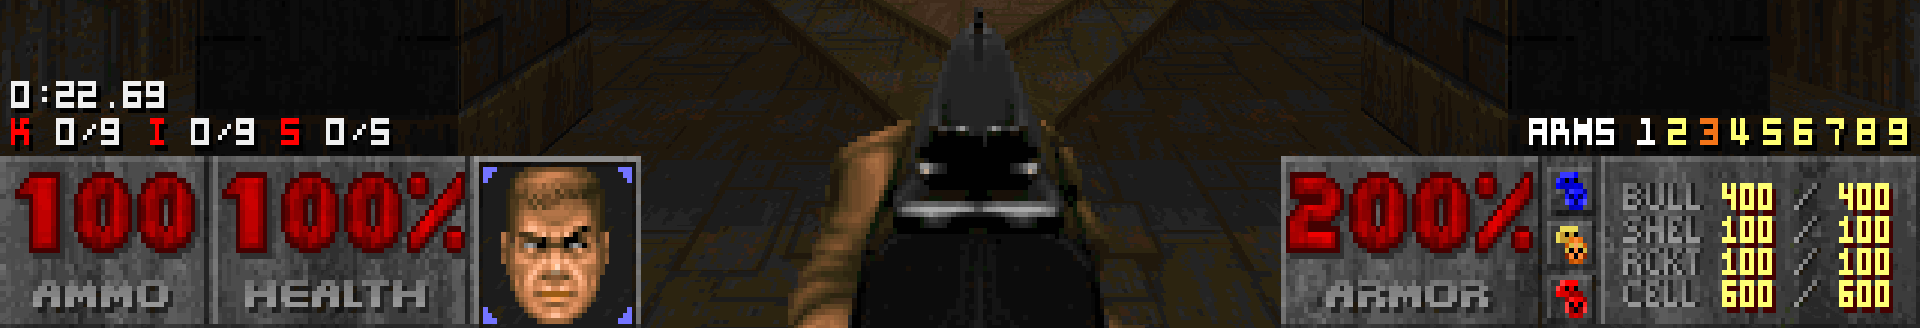
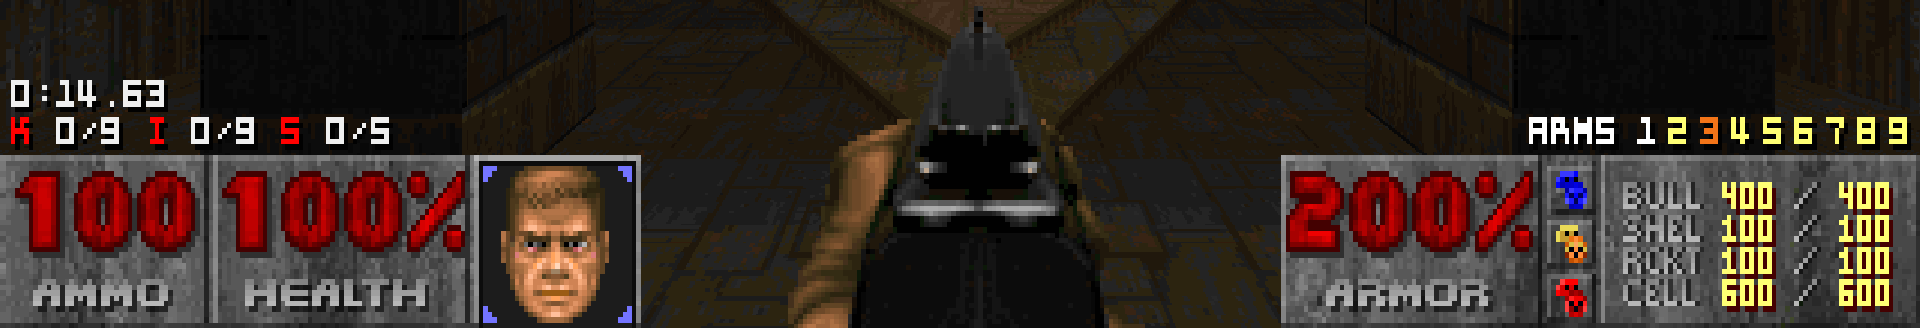
Classic Split HUD update
Transparency deactivated; mugshot frame realignments for HacX and Harmony

diff --git a/README.md b/README.md
@@ -57,11 +57,11 @@ The Nightdive port brought the possibility to edit the Doom statusbar and fullsc
 Available variants:<br><br>
 
 **1) Classic**<br>
-Like the vanilla status bar, but with transparency. There are also indicators for Chainsaw/Super Shotgun (ARMS: "8" and "9") and Berserk (ARMS: "1"). There's also a small frame around the mugshot telling you which armor type is used (green: 33%, blue: 50%). Widescreen STBAR lumps are supported.<br>
+Includes the vanilla status bar (or large parts of it). There are also indicators for Chainsaw/Super Shotgun (ARMS: "8" and "9") and Berserk (ARMS: "1"). There's also a small frame around the mugshot telling you which armor type is used (green: 33%, blue: 50%). Widescreen STBAR lumps are supported.<br>
 ![Screenshot](screenshots/01_classic-plus.png)
-  **I. Plus**: Centered bar. Large parts of the weapon will be unfortunately obscured by the status bar here.<br><br>
+  **I. Plus**: Centered bar with transparency. Large parts of the weapon will be unfortunately obscured by the status bar here.<br><br>
 ![Screenshot](screenshots/02_classic-split.png)
-  **II. Split**: Bar split in half. ARMS panel has been replaced by a widget, sitting on top of the right bar. Should look decent with many (not all!) custom STBAR lumps.
+  **II. Split**: Opaque bar, split in half. ARMS panel has been replaced by a widget, sitting on top of the right bar. Should look decent with many (not all!) custom STBAR lumps.
 <br><br>
 
 **2) Crispy Plus**<br>
